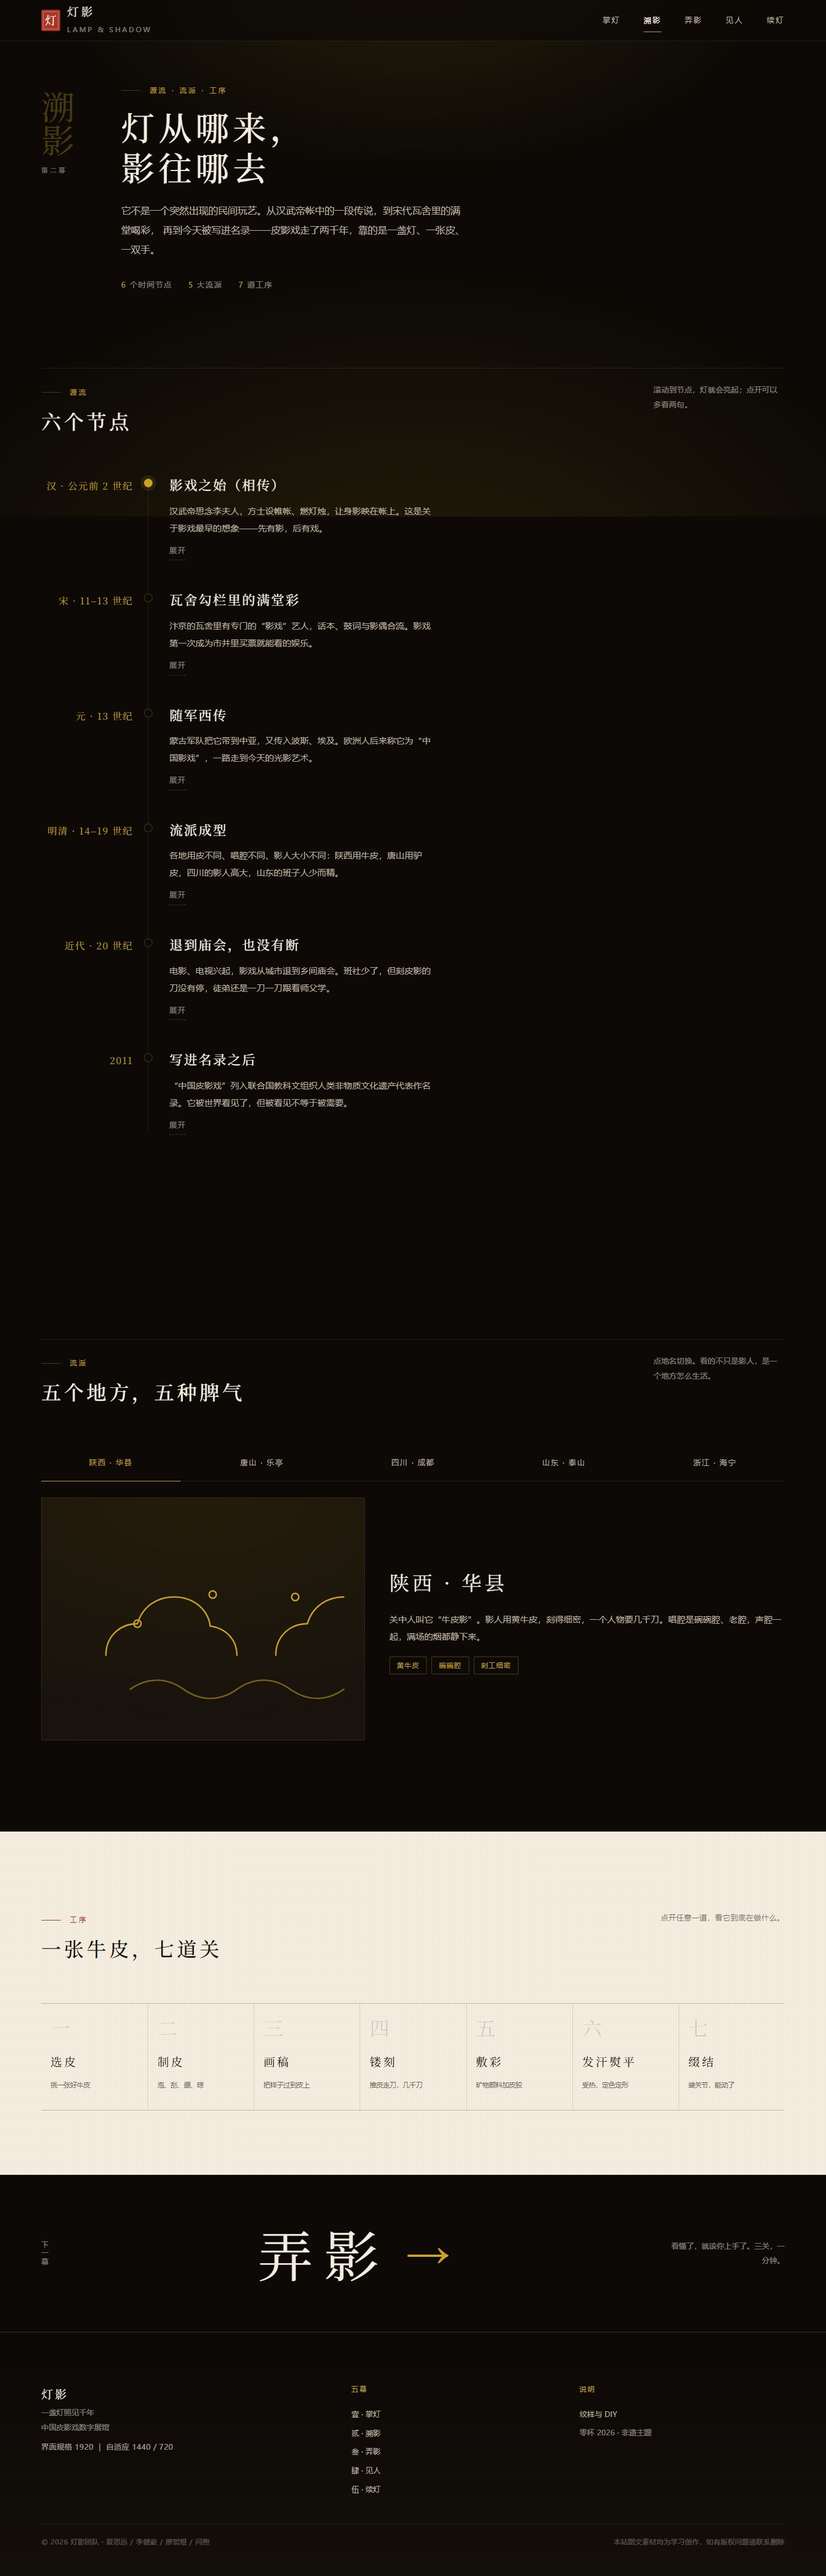
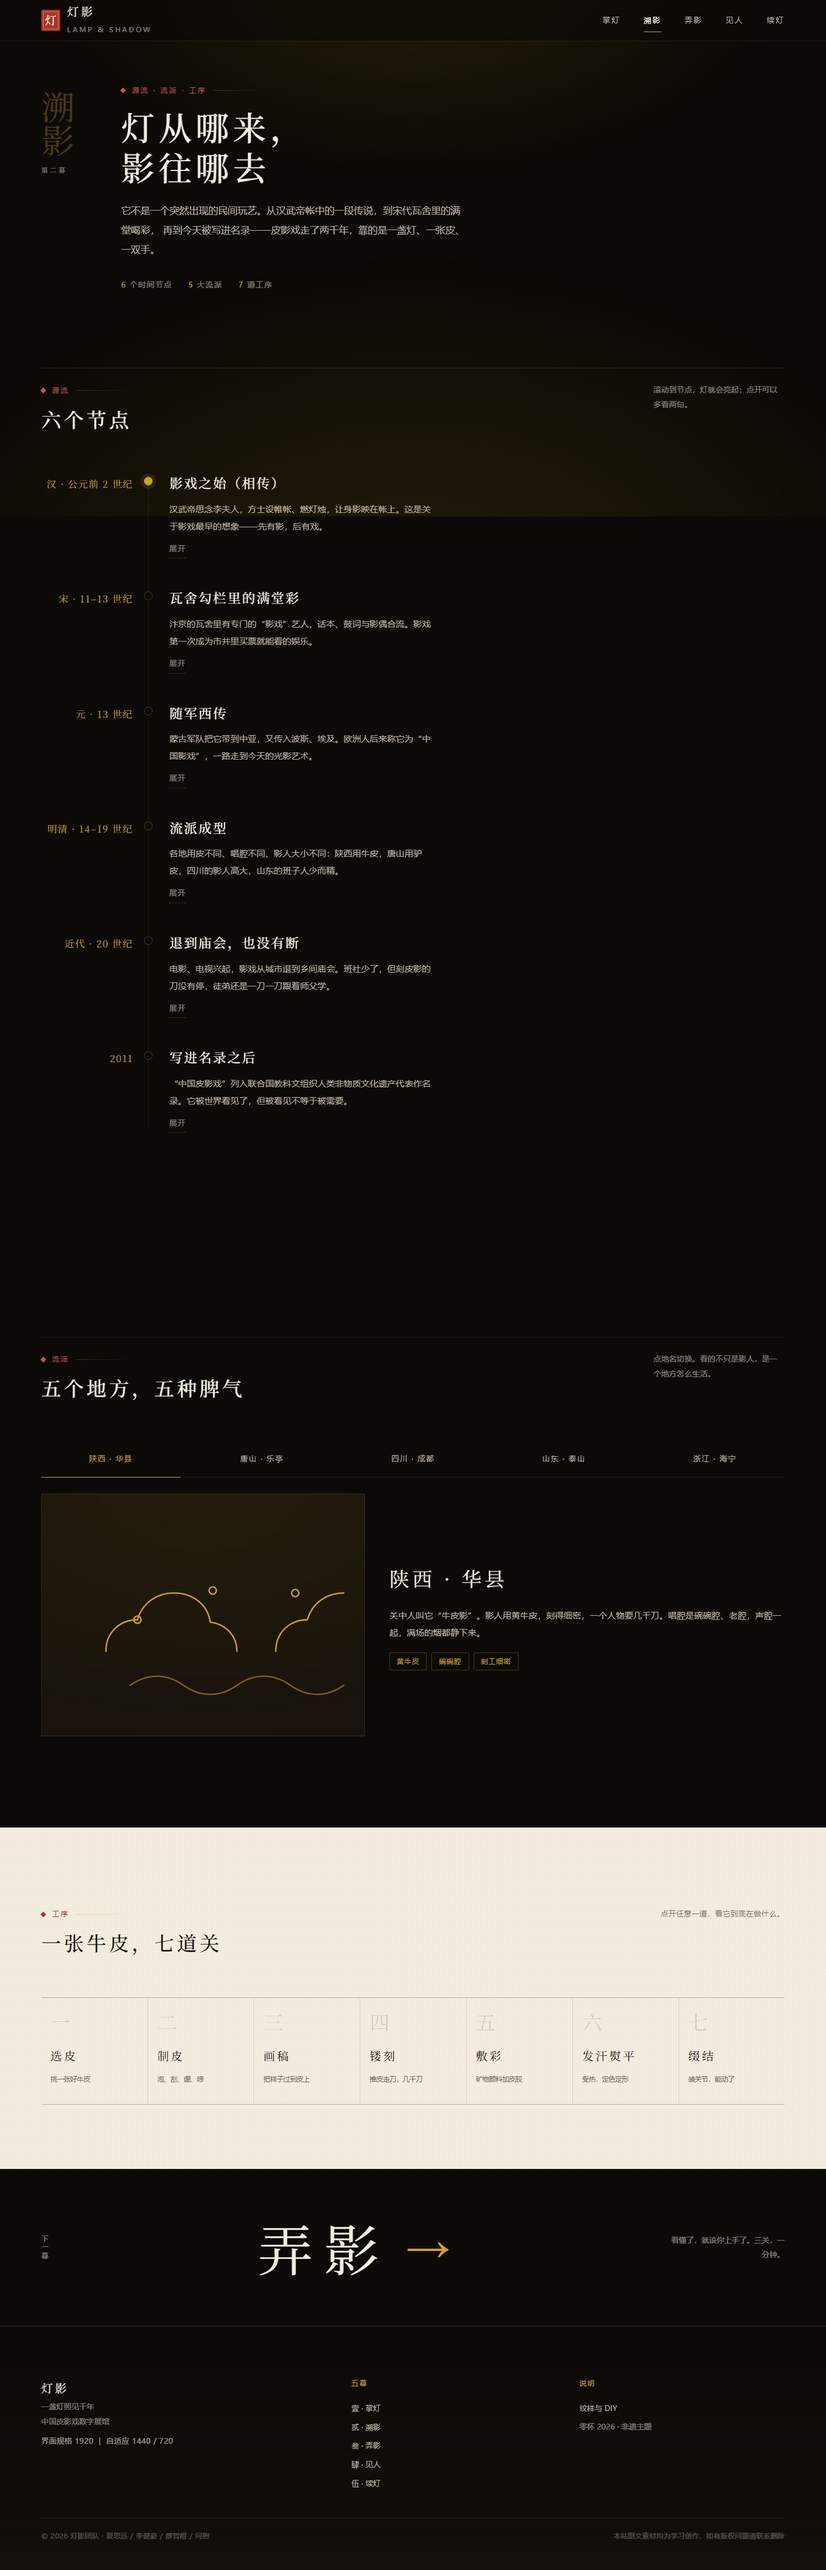
style: 章节标记改为图版样式（C 方案第一步）
- .eyebrow 从金色全大写小标题改为：朱色菱形 + 字距标签 + 向右淡出的细线
- 去掉 uppercase（中文无意义），改用朱红标记章节，金色退回只做光
- 呼应图录语法：章节像图版编号，不像落地页小标题
- 回归：30 组审计 0 报错

diff --git a/web/assets/css/base.css b/web/assets/css/base.css
@@ -84,19 +84,27 @@ ul, ol { margin: 0; padding: 0; list-style: none; }
 .eyebrow {
   display: flex;
   align-items: center;
-  gap: 16px;
+  gap: 12px;
   font-size: var(--fs-micro);
-  letter-spacing: .34em;
-  color: var(--lamp);
-  text-transform: uppercase;
+  letter-spacing: .3em;
+  color: var(--cinnabar-lit);
+  text-transform: none;
 }
+/* 章节标记按「图版」处理：朱色小方块 + 细线 + 编号，像图录而不是网页小标题 */
 .eyebrow::before {
   content: "";
-  width: 34px;
-  height: 1px;
-  background: var(--line-strong);
+  width: 7px;
+  height: 7px;
+  background: var(--cinnabar-lit);
+  transform: rotate(45deg);
   flex: none;
 }
+.eyebrow::after {
+  content: "";
+  flex: 1;
+  max-width: 96px;
+  height: 1px;
+  background: linear-gradient(90deg, var(--gold-3), transparent);}
 
 h1, h2, h3, .serif { font-family: var(--serif); font-weight: 500; }
 h1 { font-size: var(--fs-h1); line-height: 1.22; letter-spacing: .12em; }
